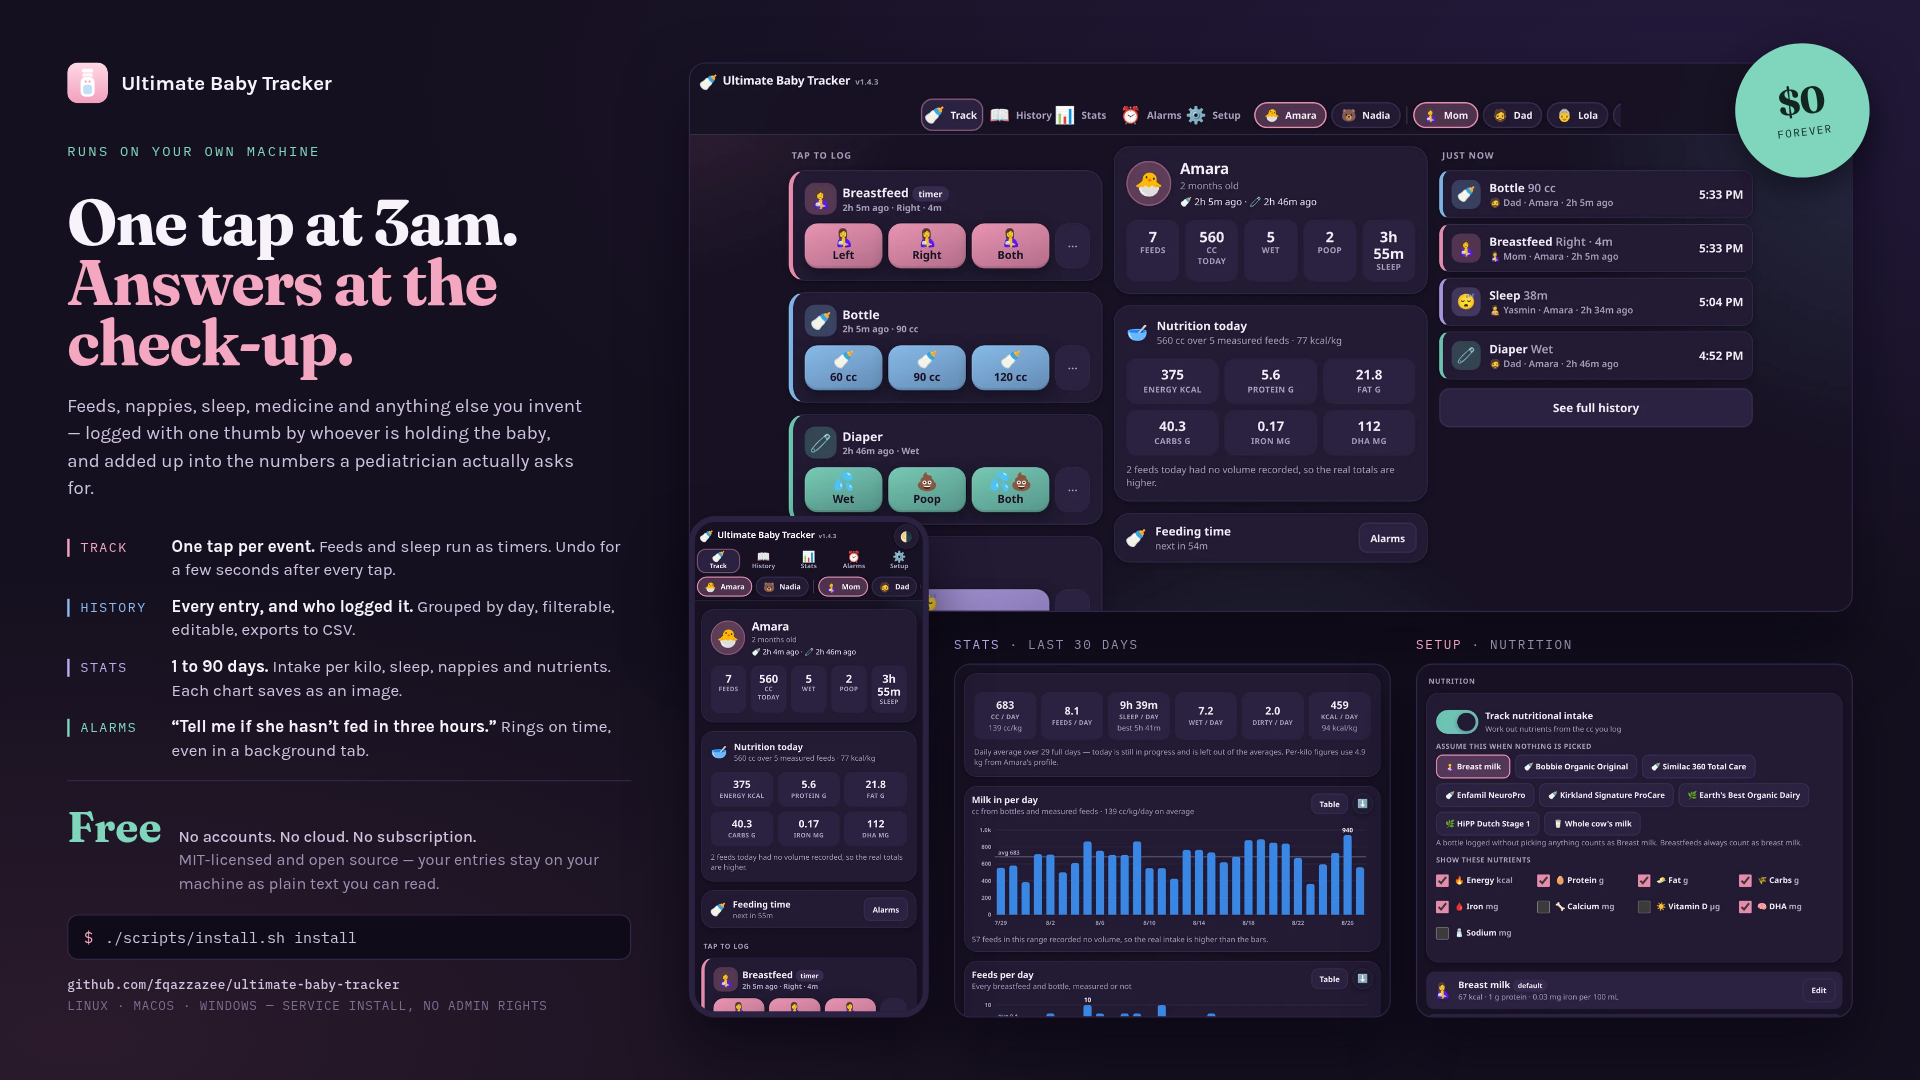
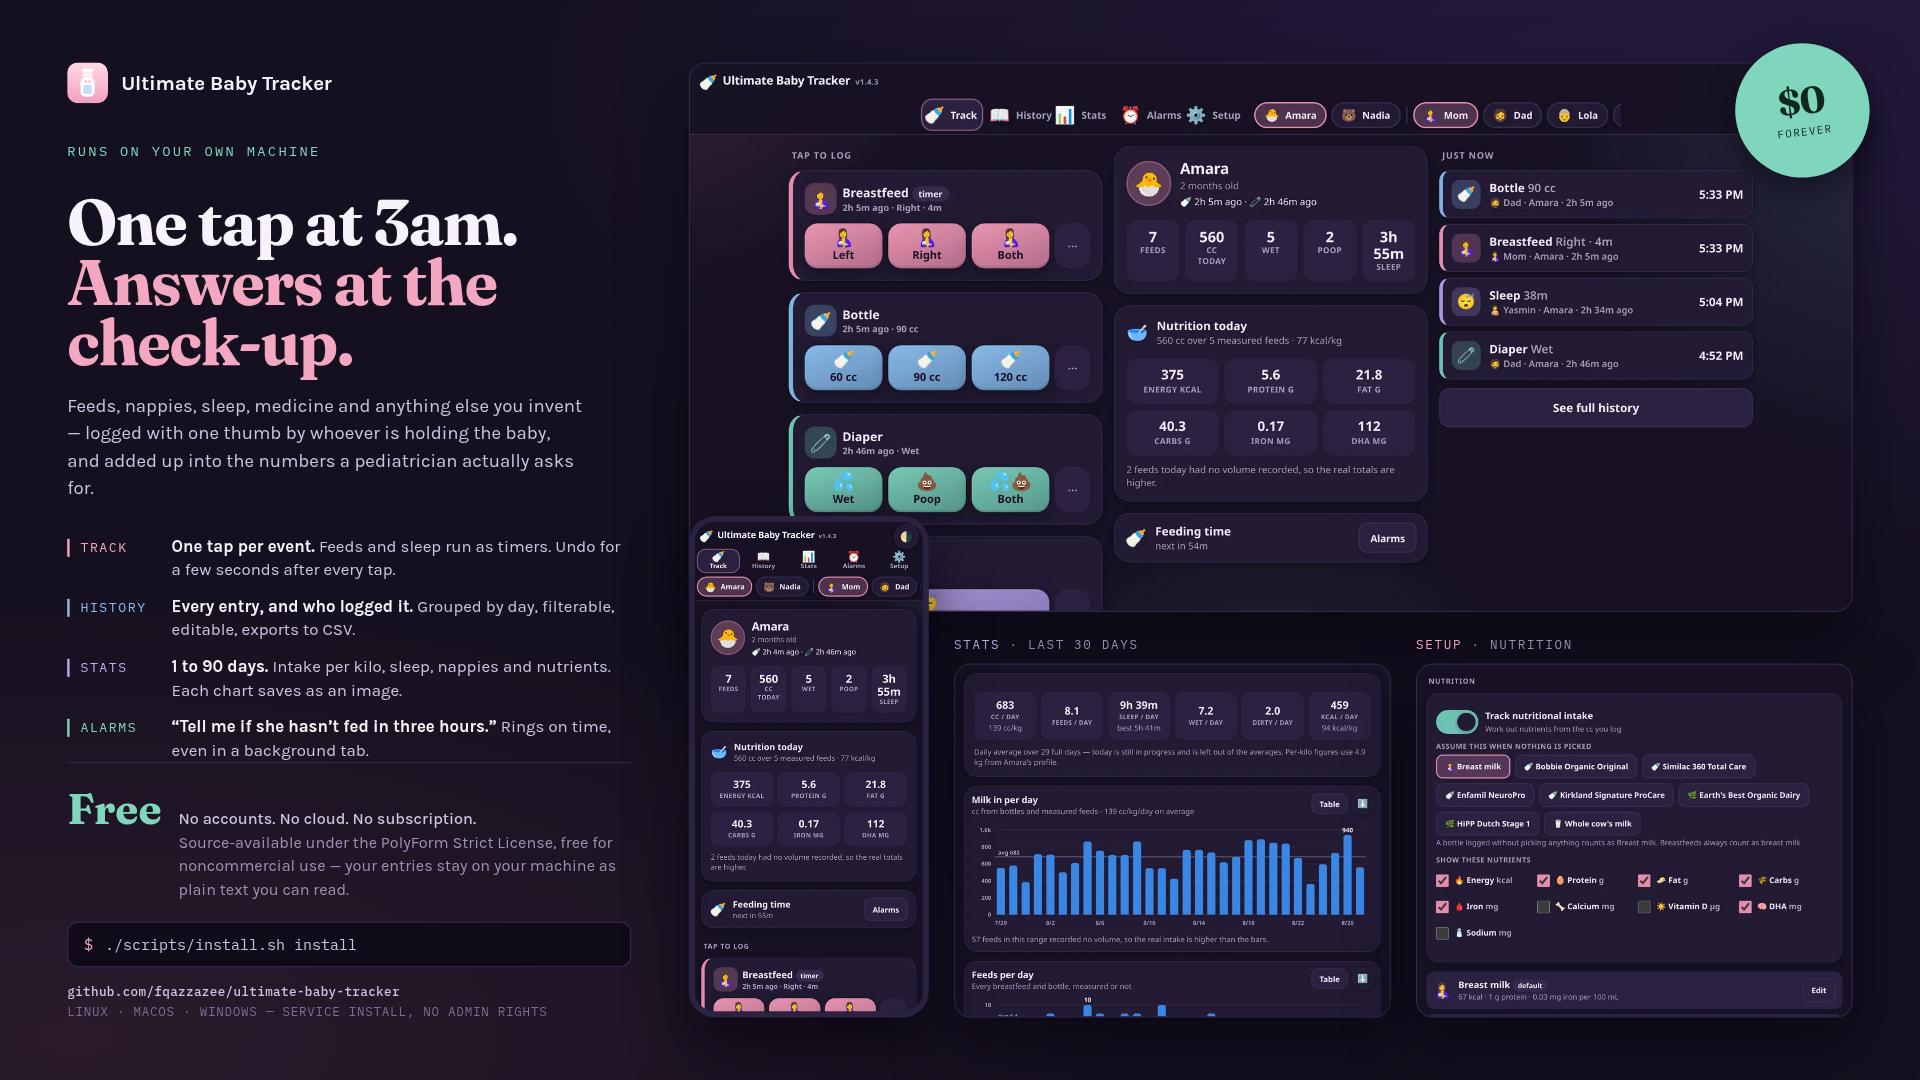
Relicense from MIT to PolyForm Strict 1.0.0
The project had no LICENSE file at all — only `"license": "MIT"` in
package.json and a line in the README. This adds the real terms and makes
every reference agree with them.

PolyForm Strict 1.0.0 permits noncommercial use of the software as it
stands. Unlike MIT it grants no right to distribute the software and no
right to make changes or new works based on it, so forks and re-hosting
are not permitted; commercial use needs a separate licence from the
licensor. The LICENSE text is the official plain text from
polyformproject.org/licenses/strict/1.0.0.txt, under a header naming the
licensor.

The slide deck claimed "MIT-licensed and open source". PolyForm Strict is
not OSI-approved and forbids redistribution, so that wording would have
been a false claim on a public page; it now reads "source-available".
slide.png is re-rendered from the edited index.html so the image the
README shows no longer says MIT.

Claude-Session: https://claude.ai/code/session_0135L4TYUTytgqt7uUPsFxQa

Changed region(s): [[0.0312, 0.7333, 0.3125, 0.9472]]

diff --git a/docs/slide/index.html b/docs/slide/index.html
@@ -357,7 +357,7 @@
     <div class="close">
       <div class="price anim d4">
         <span class="free">Free</span>
-        <p><b>No accounts. No cloud. No subscription.</b><br>MIT-licensed and open source — your entries stay on your machine as plain text you can read.</p>
+        <p><b>No accounts. No cloud. No subscription.</b><br>Source-available under the PolyForm Strict License, free for noncommercial use — your entries stay on your machine as plain text you can read.</p>
       </div>
       <div class="install anim d4"><span>$</span> ./scripts/install.sh install</div>
       <p class="fine anim d4"><b>github.com/fqazzazee/ultimate-baby-tracker</b><br>LINUX · MACOS · WINDOWS — SERVICE INSTALL, NO ADMIN RIGHTS</p>

diff --git a/README.md b/README.md
@@ -119,4 +119,6 @@ alarms.json    snooze / last-fired state
 > **No authentication and no encryption.** It was never designed to have any.
 > Keep it on a trusted network — see [SECURITY.md](SECURITY.md).
 
-MIT licensed. Made with 🍼 and very little sleep.
+Licensed under the [PolyForm Strict License 1.0.0](LICENSE) — free for any noncommercial
+use; it does not permit redistribution or modified versions. Made with 🍼 and very
+little sleep.
